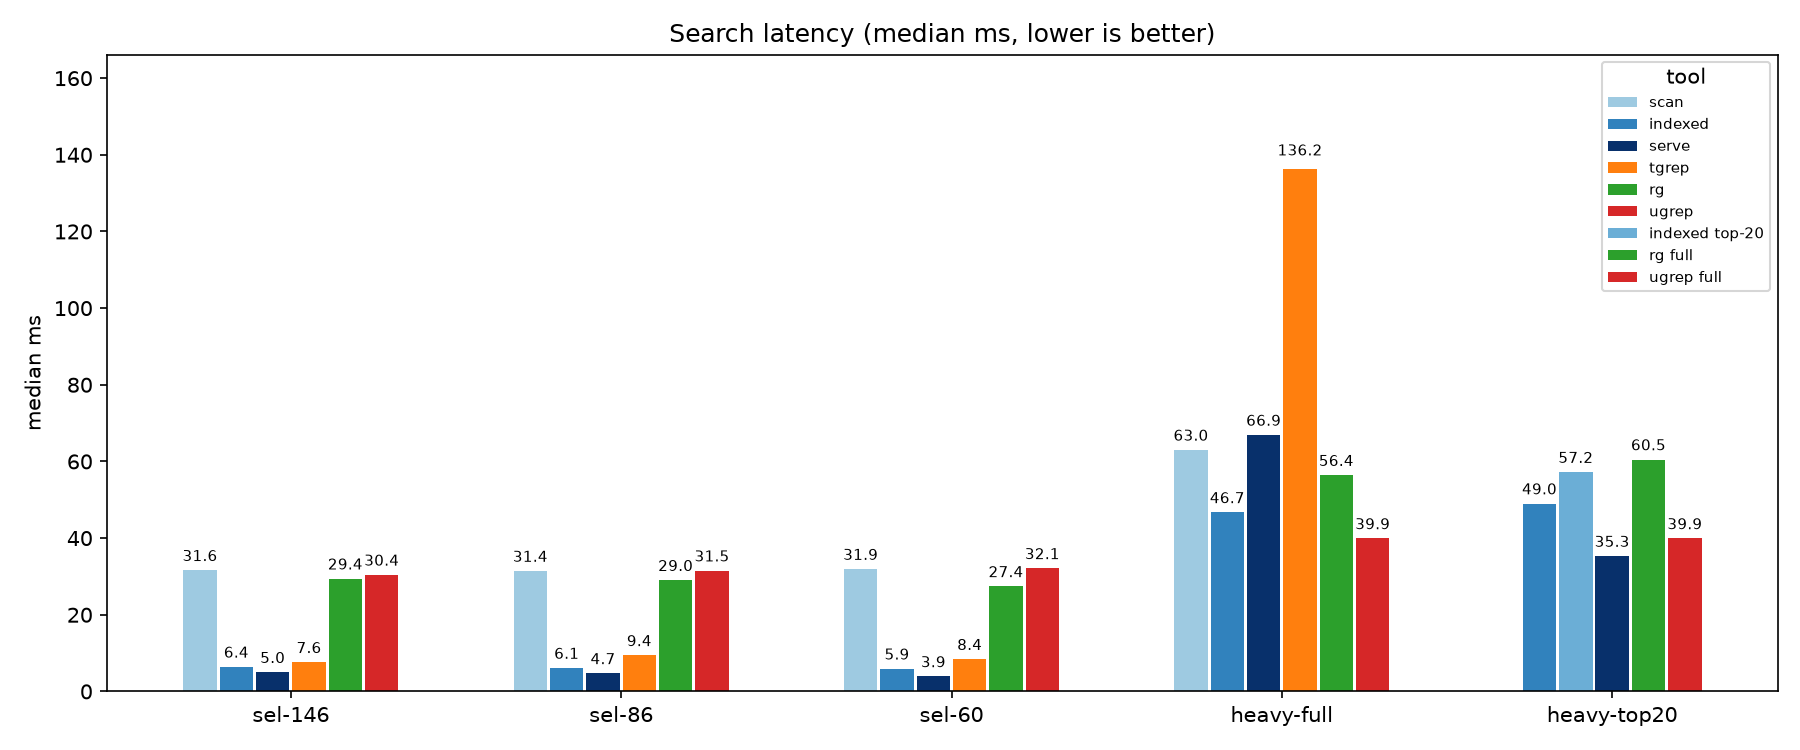
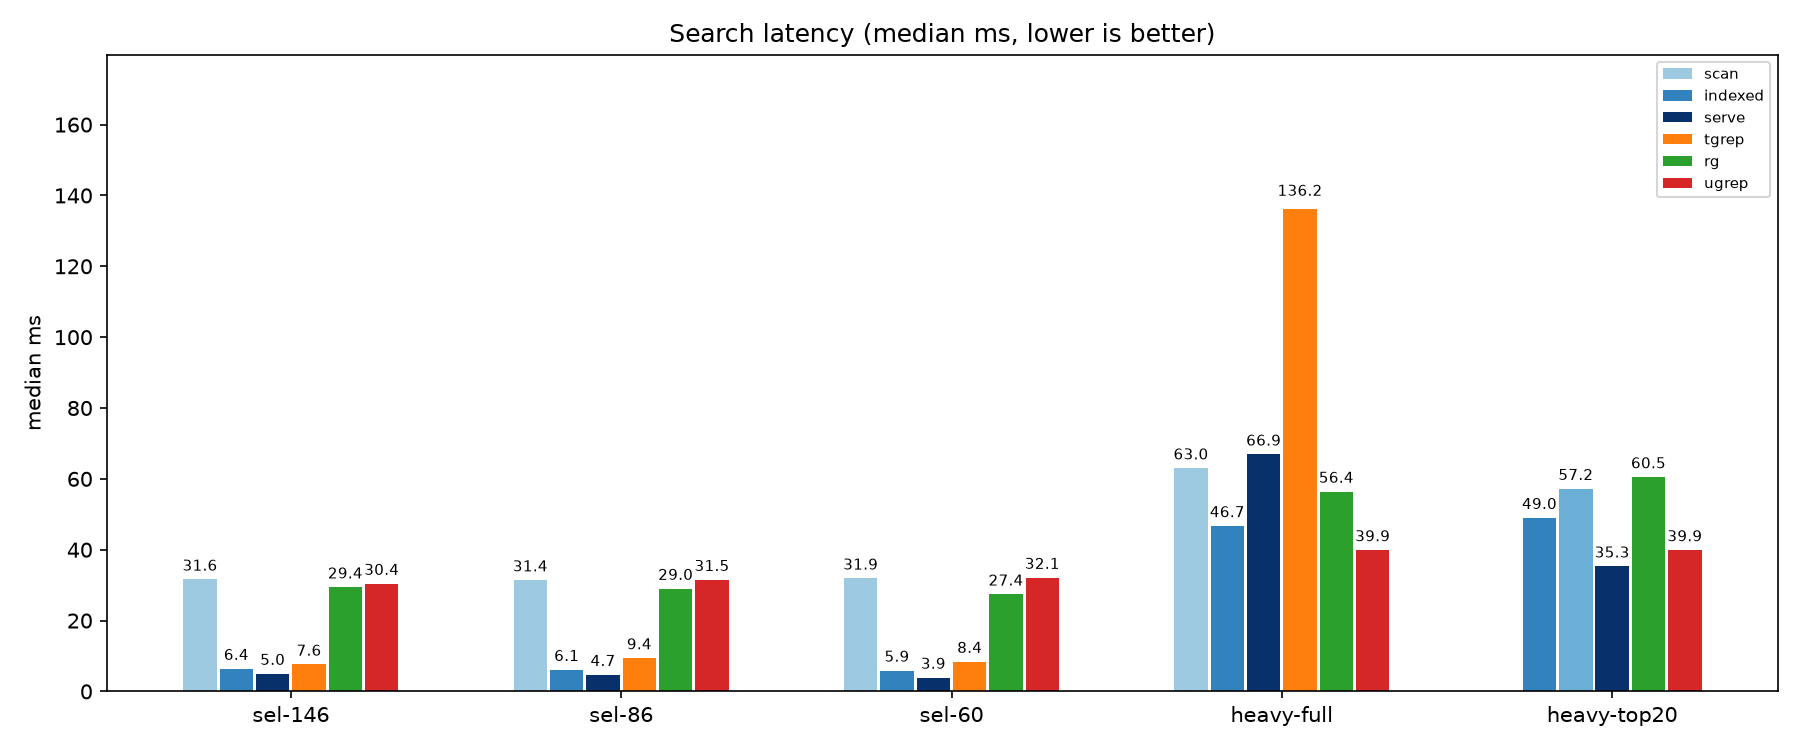
chart: annotated six-entry legend

diff --git a/bench/collect_progress.py b/bench/collect_progress.py
@@ -315,20 +315,19 @@ def plot(table):
 SIMPLE_LABELS = {
     "nk-scan": "scan",
     "nk-cold-bin": "indexed",
-    "nk-cold-json": "indexed top-20",
+    "nk-cold-json": "indexed",
     "nk-hot": "serve",
     "tgrep": "tgrep",
     "rg": "rg",
-    "rg-full": "rg full",
+    "rg-full": "rg",
     "ugrep": "ugrep",
-    "ugrep-full": "ugrep full",
+    "ugrep-full": "ugrep",
 }
 
 
 def plot_simple(table):
-    """Minimal public chart: plain labels, value bars, no footnotes."""
+    """Minimal public chart: plain labels, value bars."""
     import matplotlib
-
     matplotlib.use("Agg")
     import matplotlib.pyplot as plt
 
@@ -341,8 +340,8 @@ def plot_simple(table):
         for i, s in enumerate(series):
             v = table[group][s]
             x = gi + (i - (n - 1) / 2) * width
-            label = SIMPLE_LABELS[s] if s not in seen else None
-            seen.add(s)
+            label = SIMPLE_LABELS[s] if SIMPLE_LABELS[s] not in seen else None
+            seen.add(SIMPLE_LABELS[s])
             b = ax.bar(x, v, width=width * 0.92, label=label, color=COLORS[s])
             ax.text(
                 b[0].get_x() + b[0].get_width() / 2,
@@ -356,8 +355,8 @@ def plot_simple(table):
     ax.set_xticklabels(GROUPS)
     ax.set_ylabel("median ms")
     ax.set_title("Search latency (median ms, lower is better)")
-    ax.legend(title="tool", fontsize=7)
-    top = max(v for g in GROUPS for v in table[g].values()) * 1.22
+    top = max(v for g in GROUPS for v in table[g].values()) * 1.32
+    ax.legend(fontsize=7)
     ax.set_ylim(0, top)
     fig.tight_layout()
     fig.savefig(PUBLIC_PNG, dpi=150)
